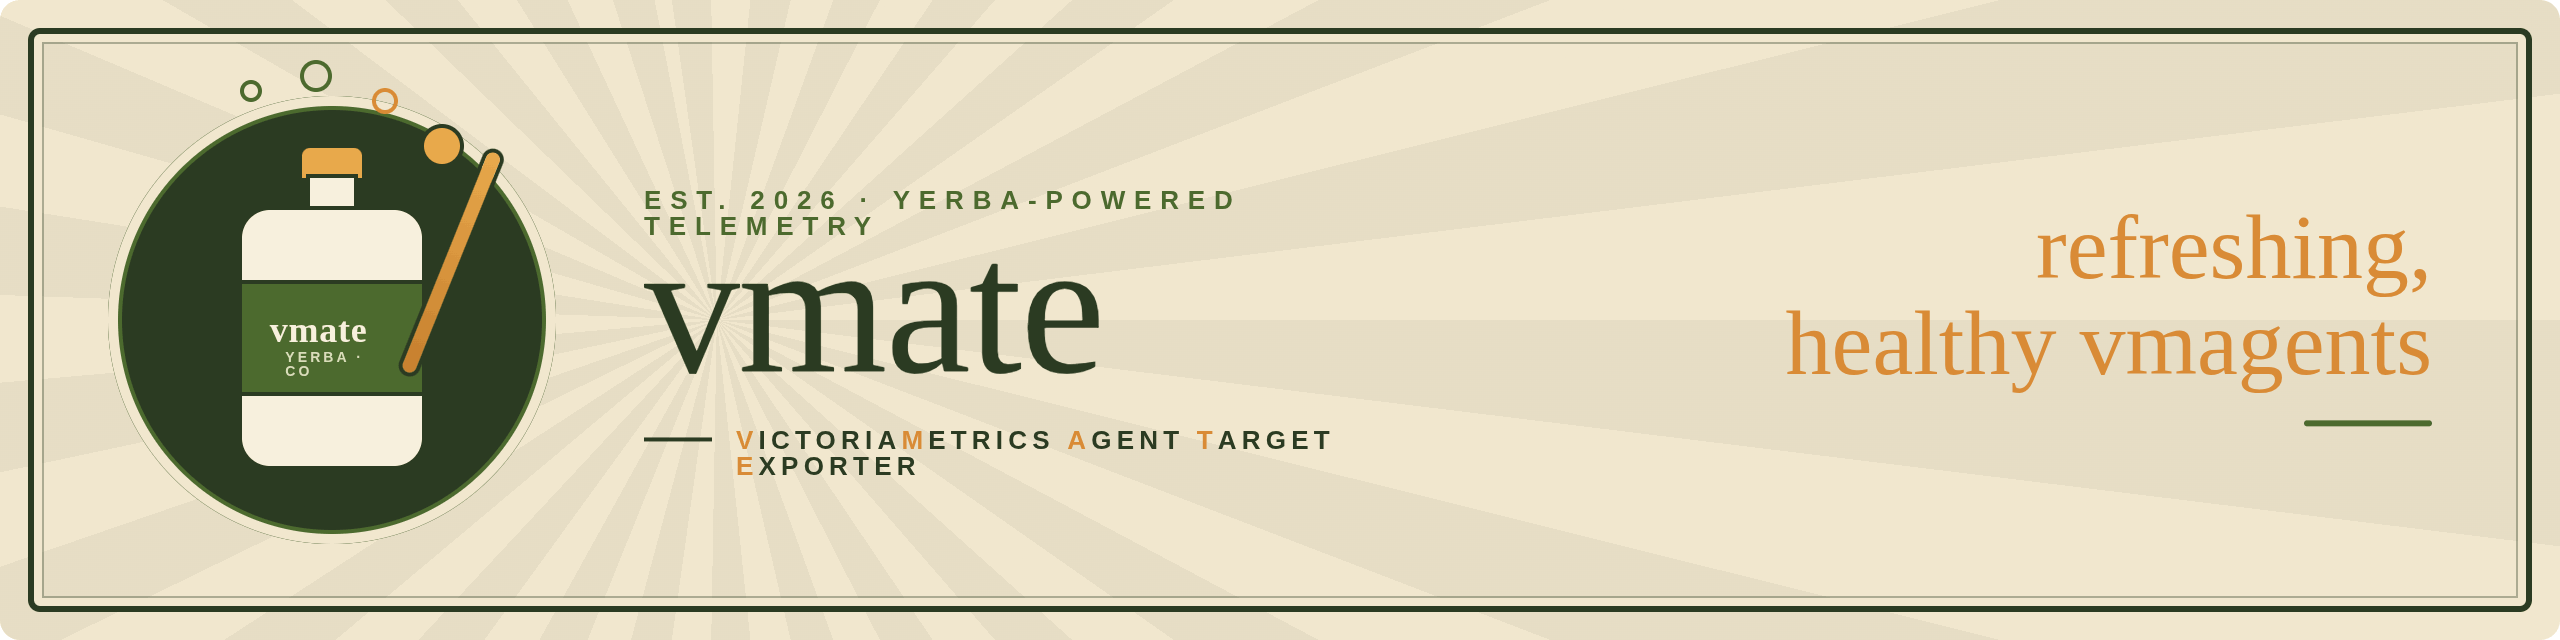
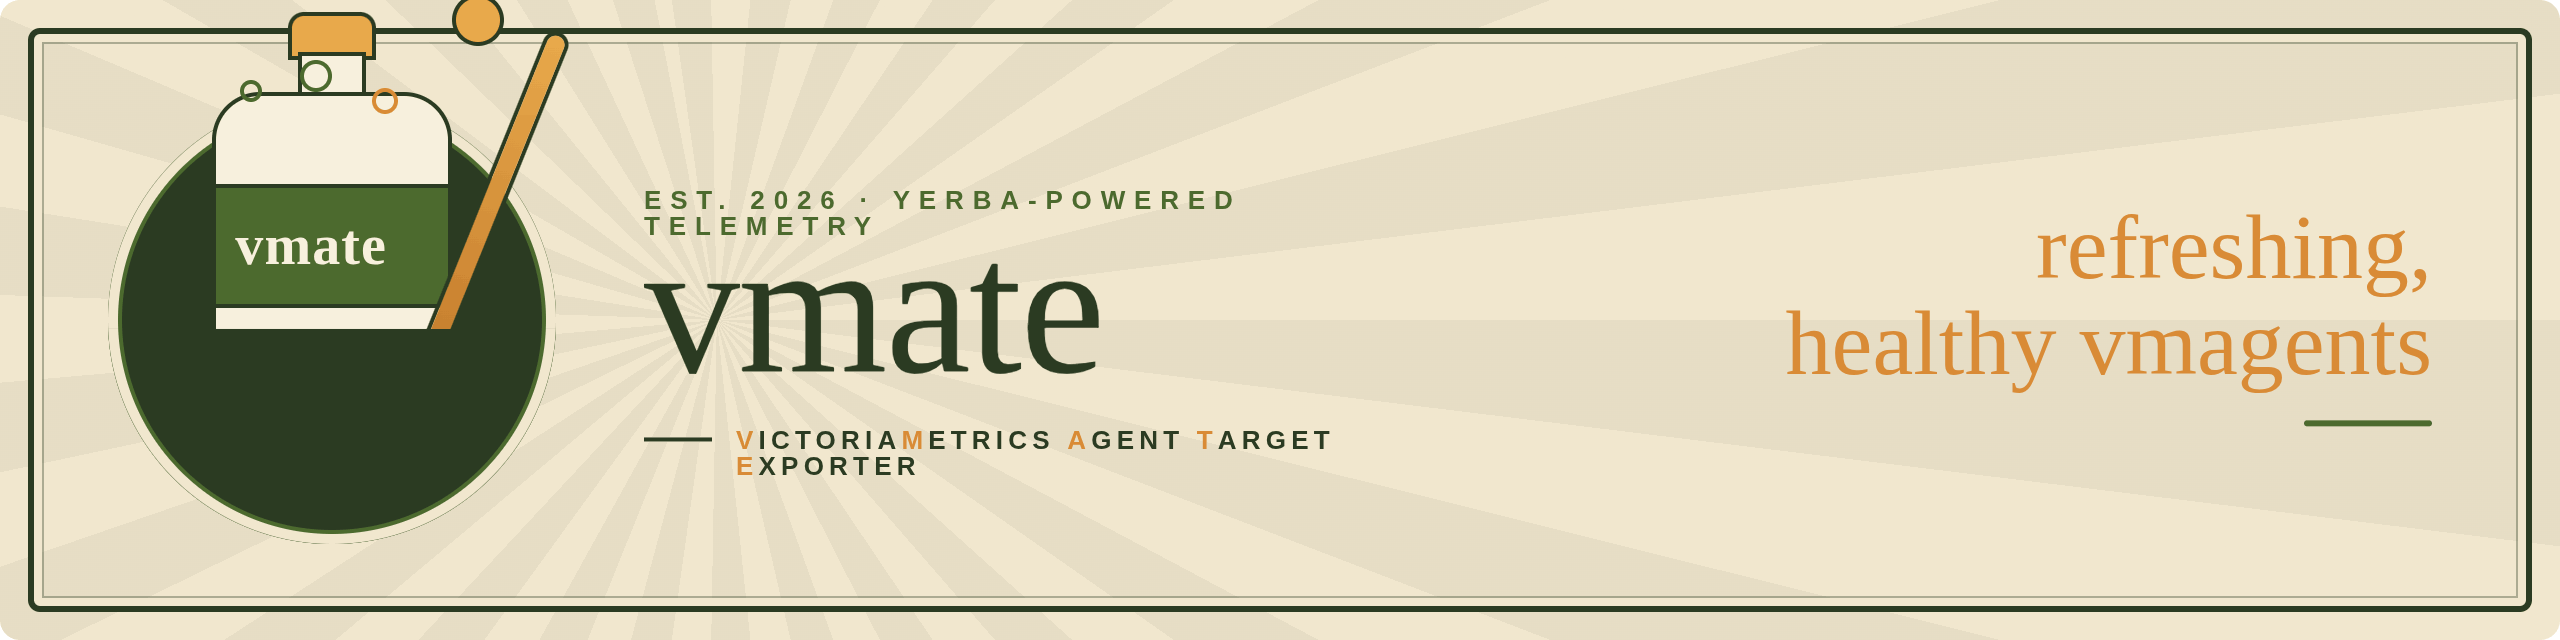
structured error parsing: extract target_url and error_code as separate fields

Changed region(s): [[0.0625, 0.0, 0.2188, 0.75]]

diff --git a/app/errors.py b/app/errors.py
@@ -1,27 +1,34 @@
 import re
 
 
-def prettify(error: str) -> str:
-    # HTTP error with response body
-    m = re.search(
-        r'unexpected status code.*?(\d{3}).*?response body: "(.+?)"?\s*$',
+def parse_error(error: str) -> dict:
+    url = None
+    code = None
+    message = error
+
+    # extract first URL
+    url_match = re.search(r'"(https?://[^"]+)"', error)
+    if url_match:
+        url = url_match.group(1)
+
+    # unexpected status code returned when scraping "URL": CODE; expecting NNN; response body: "BODY"
+    http_match = re.match(
+        r'unexpected status code returned when scraping "[^"]+": (\d{3}); expecting \d+; response body: "(.+?)"?\s*$',
         error,
         re.DOTALL,
     )
-    if m:
-        status = m.group(1)
-        body = m.group(2).replace("\\n", "\n").strip()
+    if http_match:
+        code = int(http_match.group(1))
+        body = http_match.group(2).replace("\\n", "\n").strip()
         body = re.sub(r"^An error has occurred while serving metrics:\s*\n+", "", body).strip()
         lines = [l.strip() for l in body.split("\n") if l.strip()]
-        body = lines[-1] if lines else body
-        # if still long, take after last ": "
-        if len(body) > 80:
-            body = body.rsplit(": ", 1)[-1]
-        return f"HTTP {status}: {body}"
+        message = lines[-1] if lines else body
+        return {"error": message, "target_url": url, "error_code": code}
 
-    # Go-style error with trailing (reason)
-    m = re.search(r"\(([^()]+)\)\s*$", error)
-    if m:
-        return m.group(1)
+    # cannot perform request to "URL": Get "URL": <go error>
+    req_match = re.match(r'cannot perform request to "[^"]+": .+?: (.+)$', error, re.DOTALL)
+    if req_match:
+        message = req_match.group(1).strip()
+        return {"error": message, "target_url": url, "error_code": None}
 
-    return error
+    return {"error": message, "target_url": url, "error_code": None}

diff --git a/app/main.py b/app/main.py
@@ -8,7 +8,7 @@ from prometheus_client import CONTENT_TYPE_LATEST, generate_latest
 from .collector import collect_all, unhealthy_targets
 from .config import settings
 from .discovery import discover_pods, load_k8s_config
-from .errors import prettify
+from .errors import parse_error
 
 logging.basicConfig(level=logging.INFO)
 logging.getLogger("uvicorn.access").setLevel(logging.WARNING)
@@ -114,11 +114,15 @@ async def healthz() -> dict:
 
 
 def _target_dict(t, raw: bool = False) -> dict:
-    return {
+    base = {
         "pod": t.pod,
         "scrape_pool": t.scrape_pool,
         "job": t.job,
         "instance": t.instance,
         "health": t.health,
-        "error": t.error if raw else prettify(t.error),
     }
+    if raw:
+        base["error"] = t.error
+    else:
+        base.update(parse_error(t.error))
+    return base